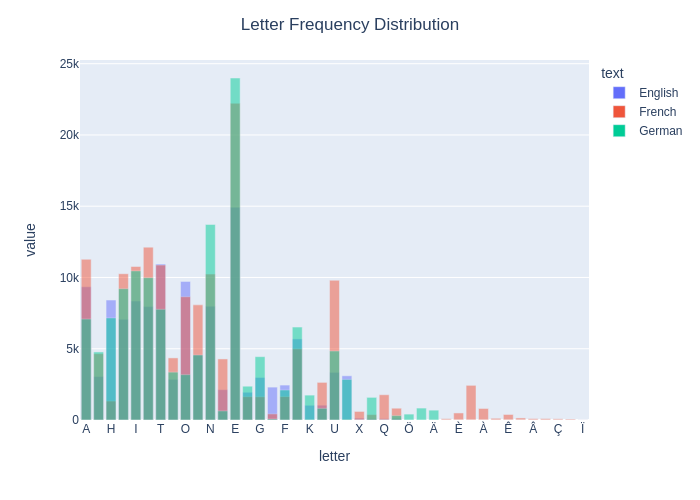
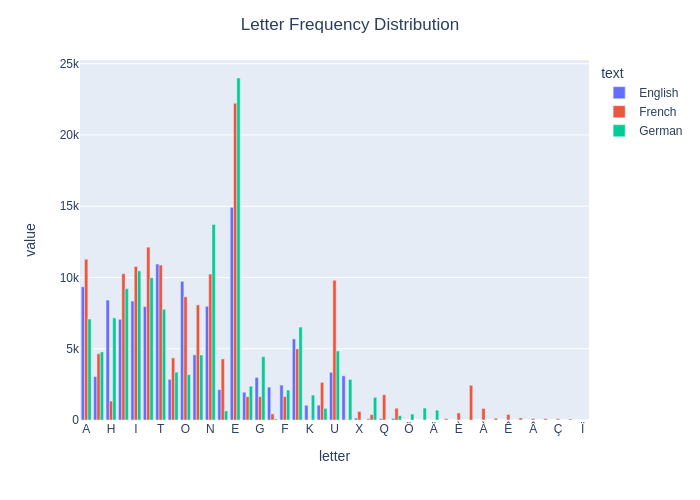
move bar to group

Changed region(s): [[0.09, 0.15, 0.75, 0.84]]

diff --git a/assignment2/analysis.py b/assignment2/analysis.py
@@ -183,7 +183,7 @@ def drawBarGraphs(data,interactive):
         for letter,value in info.items():
             merged.append({"text":name.removesuffix(".txt").capitalize(),"letter":letter,"value":value})
     df = pd.DataFrame(merged)
-    fig= px.bar(df, x="letter", color="text",y="value", barmode="overlay")
+    fig= px.bar(df, x="letter", color="text",y="value", barmode="group")
     fig.update_layout(title_text="Letter Frequency Distribution", title_x=0.5)
     if interactive:
         fig.show()
